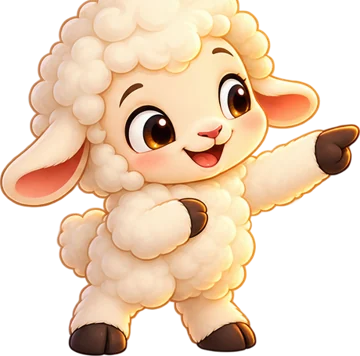
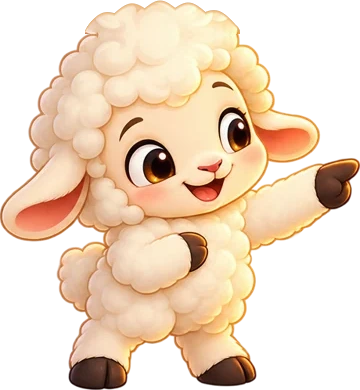
site: claude v1.4.2 — corrige a cabeça cortada da Lumi (poses dica e lendo) e o piscar
Claude-Session: https://claude.ai/code/session_01ARNi3jRSMCWTmPDkK9G6dJ

diff --git a/sw.js b/sw.js
@@ -1,5 +1,5 @@
-/* Jogos Bíblicos — funciona sem internet. Versão: claude-v1.4.1 */
-const CACHE = 'jogos-biblicos-claude-v1.4.1';
+/* Jogos Bíblicos — funciona sem internet. Versão: claude-v1.4.2 */
+const CACHE = 'jogos-biblicos-claude-v1.4.2';
 const ASSETS = ['./', './Lora-Italic-Variable.woff', './Lora-Variable.woff', './app.css', './aurora.svg', './campo.svg', './cidade.svg', './confins.svg', './core.js', './dados-caca.js', './dados-cartas.js', './dados-cruzada.js', './dados-kids.js', './dados-ligacoes.js', './dados-memoria.js', './dados-palavra.js', './dados-quem.js', './dados-quiz.js', './dados-roda.js', './dados-tempo.js', './dados-versiculos.js', './deserto.svg', './galileia.svg', './hub.js', './icon-180.png', './icon-192.png', './icon-512.png', './index.html', './jardim.svg', './jogo-caca.js', './jogo-cartas.js', './jogo-cruzada.js', './jogo-kids.js', './jogo-ligacoes.js', './jogo-memoria.js', './jogo-palavra.js', './jogo-quem.js', './jogo-quiz.js', './jogo-roda.js', './jogo-tempo.js', './jogo-versiculo.js', './kit.js', './lumi-dica-pisca.webp', './lumi-dica.webp', './lumi-dormindo.webp', './lumi-festa.webp', './lumi-lendo-pisca.webp', './lumi-lendo.webp', './lumi-oi-pisca.webp', './lumi-oi.webp', './lumi-pensando-pisca.webp', './lumi-pensando.webp', './lumi-rosto.webp', './lumi-sarca.webp', './lumi.js', './manifest.webmanifest', './mar.svg', './monte.svg', './noite.svg', './palacio.svg', './solver.js', './tumba.jpg'];
 self.addEventListener('install', e => { e.waitUntil(caches.open(CACHE).then(c => c.addAll(ASSETS)).then(() => self.skipWaiting())); });
 self.addEventListener('activate', e => { e.waitUntil(caches.keys().then(ks => Promise.all(ks.filter(k => k !== CACHE && k.startsWith('jogos-biblicos')).map(k => caches.delete(k)))).then(() => self.clients.claim())); });

diff --git a/lumi.js b/lumi.js
@@ -8,7 +8,7 @@
   //  Quatro poses têm um quadro de "piscar" (olhos fechados) por cima.
   // =====================================================================
   const lumiSrc = n => 'lumi-' + n + '.webp';
-  const BLINK = { oi: [33.76, 21.67, 46.82], pensando: [32.11, 21.94, 48.16], dica: [31.39, 17.70, 41.39], lendo: [29.17, 26.01, 40.83] };
+  const BLINK = { oi: [33.76, 21.67, 46.82], pensando: [32.11, 21.94, 48.16], dica: [32.82, 24.87, 38.21], lendo: [29.17, 33.61, 40.83] };
   const body = p => { const b = BLINK[p]; return `<img class="lu-i" src="${lumiSrc(p)}" alt="" draggable="false">${b ? `<img class="lu-e" src="${lumiSrc(p + '-pisca')}" style="left:${b[0]}%;top:${b[1]}%;width:${b[2]}%" alt="" draggable="false">` : ''}`; };
   const lumiHTML = (p, cls = '') => `<button class="lumi ${cls}" data-pose="${p}" data-lumi aria-label="Lumi"><span class="lu-sh"></span><span class="lu-b">${body(p)}</span><span class="lu-fx"></span></button>`;
   function setPose(lu, p) {

diff --git a/hub.js b/hub.js
@@ -60,7 +60,7 @@
         <button class="btn" data-settings>${I.gear} Ajustes</button>
         ${standalone ? '' : `<button class="btn" data-install>${I.share} Instalar no iPhone</button>`}
       </div>
-      <p class="credit">Textos bíblicos: Almeida Corrigida Fiel (ACF), fonte oficial deste app · <button class="lnk" data-about>Sobre</button> · Foto da capa: Pisit Heng / Unsplash · versão claude v1.4.1${window.__BETA ? ' beta ' + window.__BETA : ''}</p>`;
+      <p class="credit">Textos bíblicos: Almeida Corrigida Fiel (ACF), fonte oficial deste app · <button class="lnk" data-about>Sobre</button> · Foto da capa: Pisit Heng / Unsplash · versão claude v1.4.2${window.__BETA ? ' beta ' + window.__BETA : ''}</p>`;
     el.addEventListener('click', e => {
       const g = e.target.closest('[data-go]'); if (g) { App.sfx.tap(); go(g.dataset.go); }
       if (e.target.closest('[data-settings]')) openSettings();
